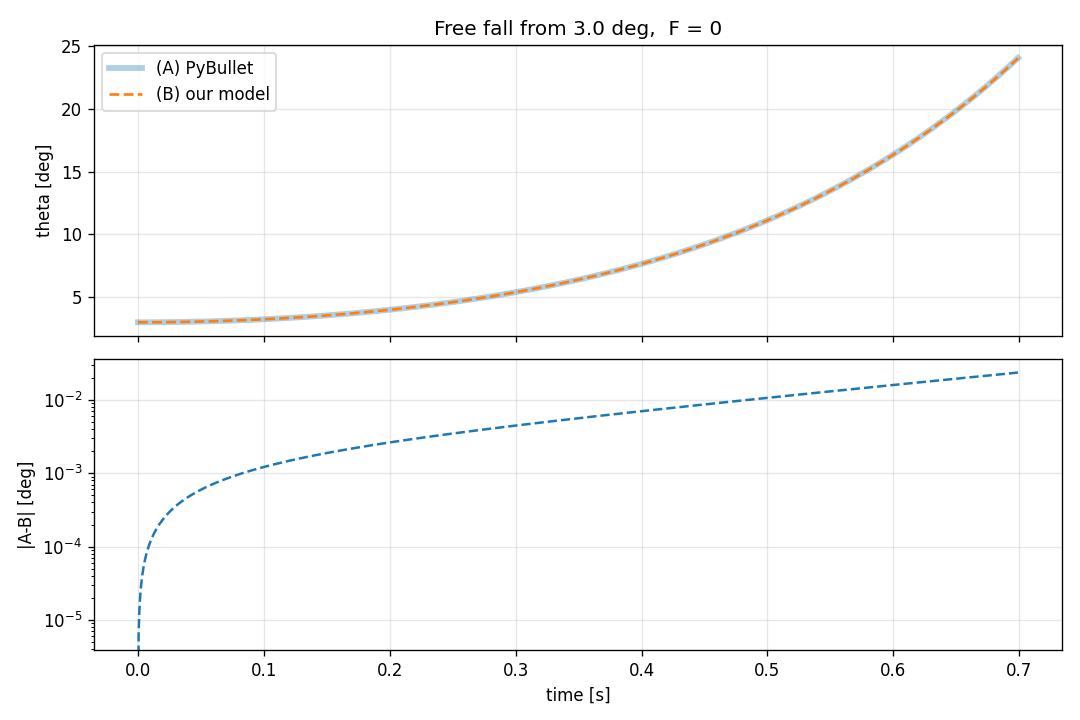
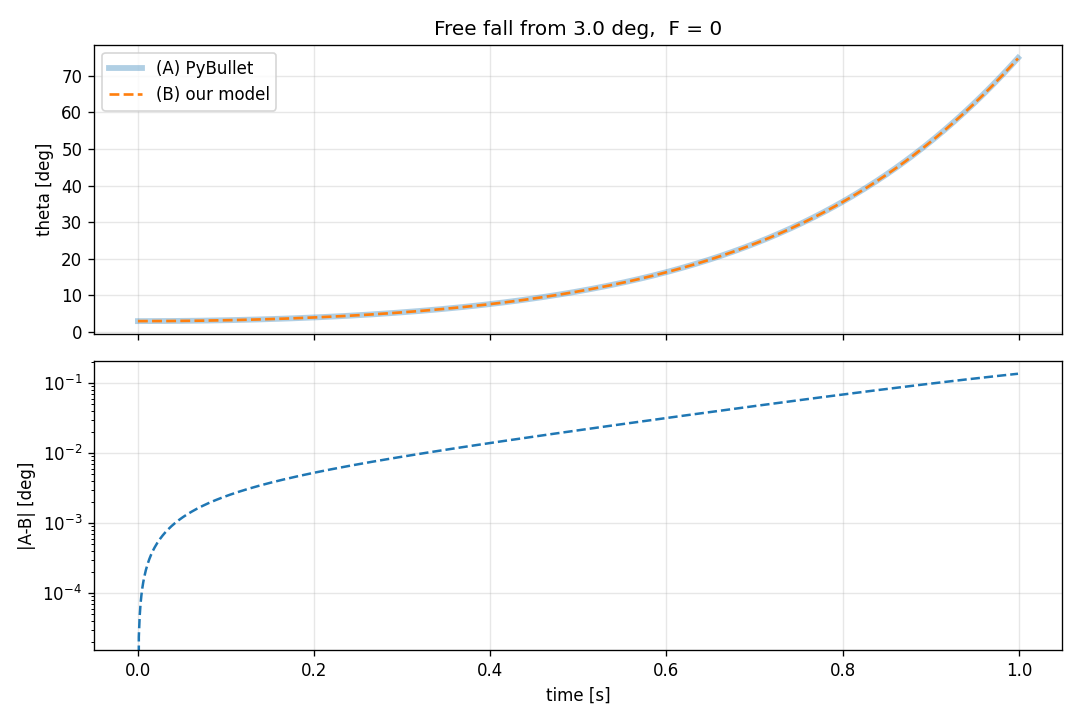
Lab 1c: 1 s of fall at a 1 ms step
3 deg grows to 75 deg over a second, so the fall is actually visible in the
plot instead of the 24 deg the old 0.7 s window reached. Past ~1.5 s the pole
swings over and the comparison stops meaning anything, so 1 s is about the
useful limit.

1 ms matches the step 01b probes with, and it makes the 1/1000 row of the
refinement table equal the number printed above it.

Reference PNG and the README table regenerated.

diff --git a/simulation/cartpole/01c_trajectory.py b/simulation/cartpole/01c_trajectory.py
@@ -29,19 +29,21 @@ from cartpole_env import CartPole, rk4_step, nonlinear_dynamics
 # --- free fall, both at once -------------------------------------------
 # Both are advanced inside ONE loop, so they always sit at the same time.
 #
-#   T  = 0.7 s   the pole is unstable, so past ~2 s it has swung right over
-#                and comparing angles stops meaning anything.
-#   dt = 1/2000  fine enough that RK4 error stays far below everything else.
+#   T  = 1 s     3 deg grows to about 75 deg in that time -- a big fall,
+#                but still short of going over. Past ~1.5 s the pole has
+#                swung right around and comparing angles stops meaning
+#                anything.
+#   dt = 1 ms    1000 steps. Same step size as 01b.
 
 print("free fall")
-T = 0.7
-dt = 1.0 / 2000.0
+T = 1.0
+dt = 1.0 / 1000.0
 n = int(T / dt)
 
 th0_deg = 3.0
 s0 = np.array([0.0, np.deg2rad(th0_deg), 0.0, 0.0])
 
-env = CartPole(gui=False, dt=dt)     # (A) the robot
+env = CartPole(gui=True, dt=dt)     # (A) the robot
 env.reset(s0)
 s = s0.copy()                        # (B) our model
 

diff --git a/simulation/cartpole/cartpole_env.py b/simulation/cartpole/cartpole_env.py
@@ -151,6 +151,7 @@ def rk4_step(s, F, dt, dyn=nonlinear_dynamics):
 
     We need this because comparing our model against the simulator means
     integrating our model forward in time, not just evaluating accelerations.
+    link : https://en.wikipedia.org/wiki/Runge%E2%80%93Kutta_methods
     """
     k1 = dyn(s, F)
     k2 = dyn(s + 0.5 * dt * k1, F)

diff --git a/simulation/cartpole/README.md b/simulation/cartpole/README.md
@@ -150,13 +150,13 @@ plant amplifies the difference exponentially. Shrink `dt` and watch it vanish:
 
 ```
       dt |  max |A-B| deg
-  0.00417 |     0.19208
-  0.00100 |     0.04662
-  0.00025 |     0.01173
-  0.00006 |     0.00294
+  0.00417 |     0.55908
+  0.00100 |     0.13602
+  0.00025 |     0.03412
+  0.00006 |     0.00854
 ```
 
-Roughly proportional to `dt`, heading to zero. A numerical artifact, not a
+Quartering `dt` quarters the gap — heading to zero. A numerical artifact, not a
 modeling error — and a distinction worth keeping, because Lab 1e produces an
 error that looks just like this one in a table and behaves nothing like it.
 